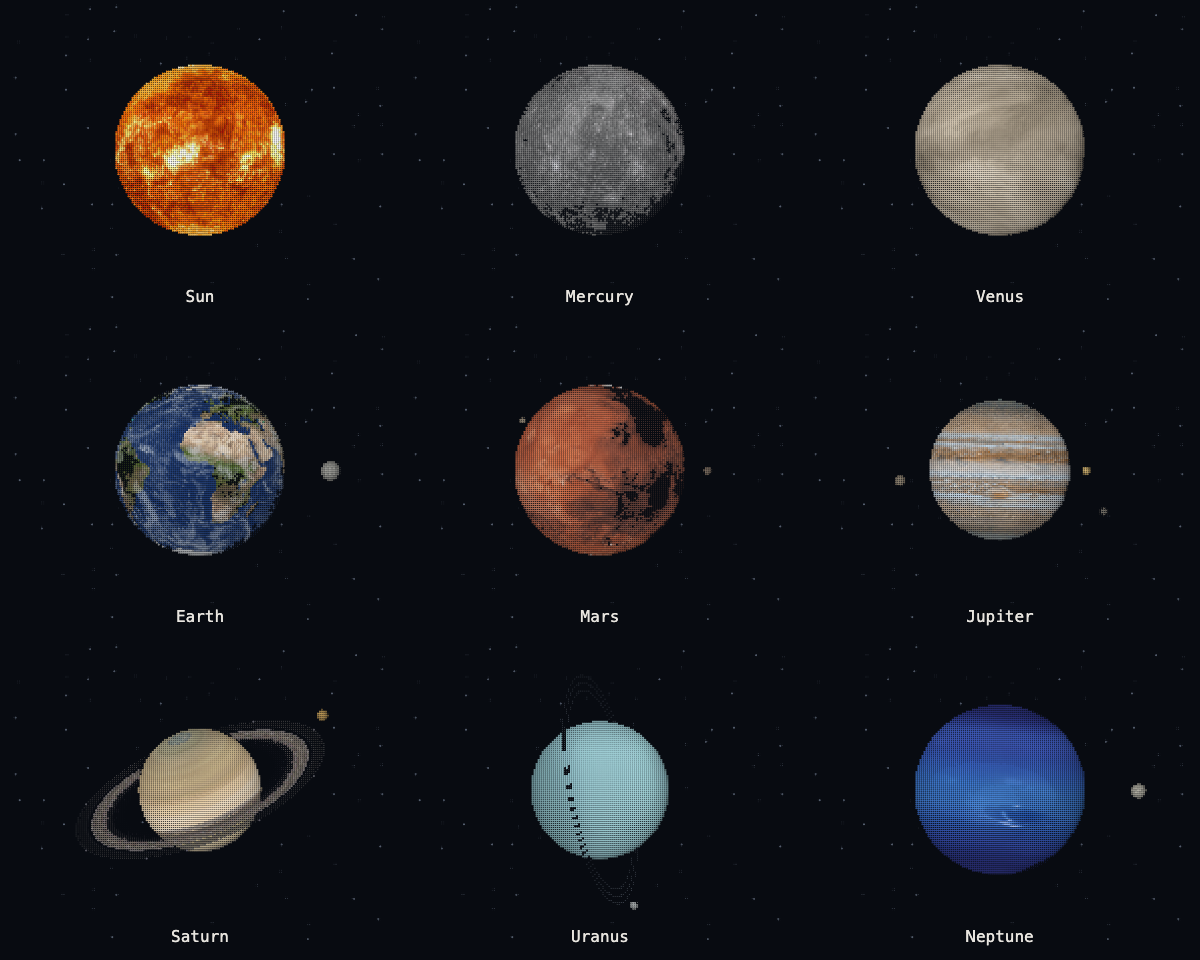
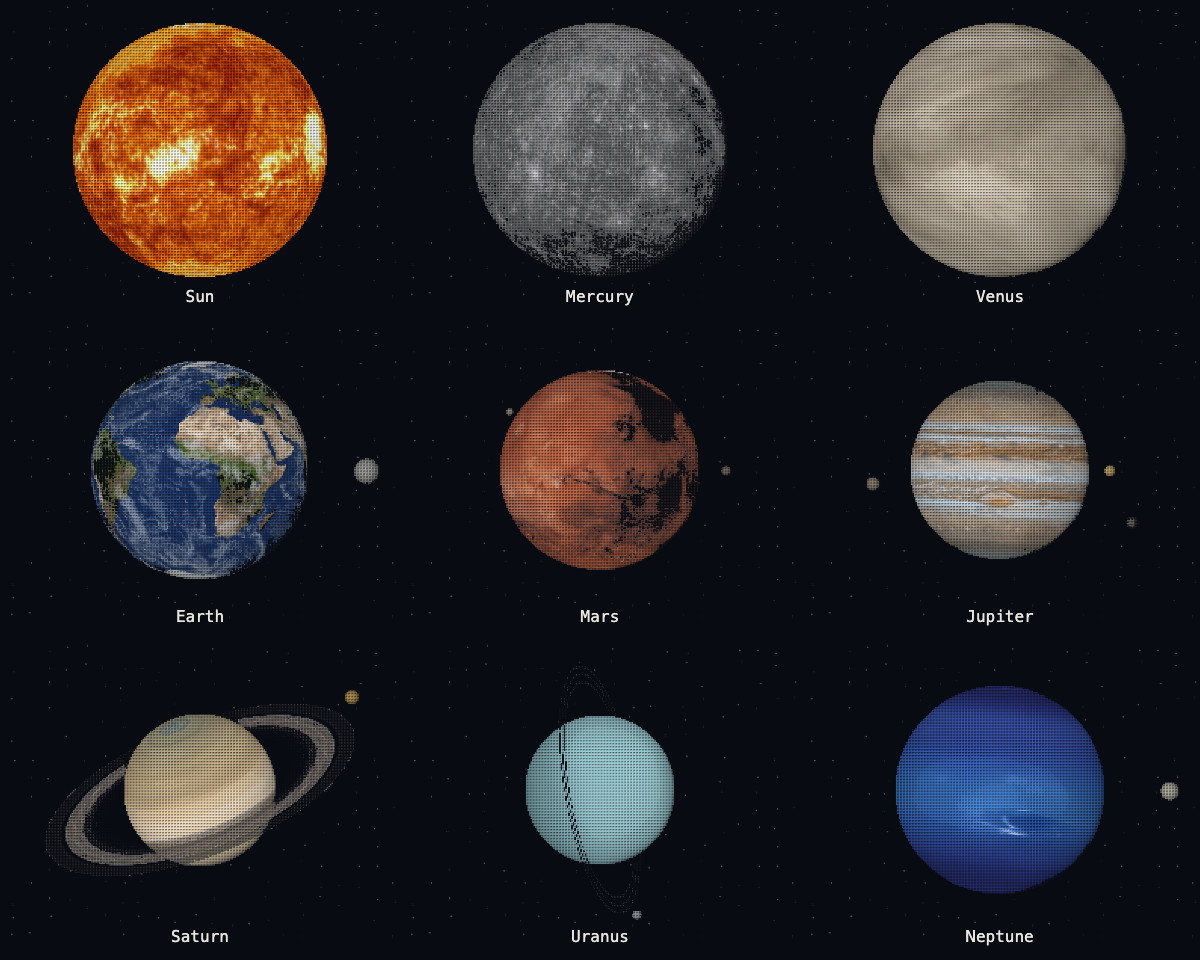
feat(solar-system): enlarge worlds and increase surface detail

diff --git a/art/solar-system/index.html b/art/solar-system/index.html
@@ -4,7 +4,7 @@
 <meta name="viewport" content="width=device-width,initial-scale=1">
 <title>Solar system · Astro ASCII</title>
 <style>
-:root{color-scheme:dark;--bg:#080b11;--ink:#e8e5df;--muted:#a0aaba;--line:#303949;--accent:#e7c58f}*{box-sizing:border-box}body{margin:0;background:var(--bg);color:var(--ink);font:14px/1.6 ui-monospace,SFMono-Regular,Menlo,monospace}main{max-width:1500px;margin:auto;padding:28px 40px}header{display:flex;justify-content:space-between;align-items:center;gap:20px;border-bottom:1px solid var(--line);padding-bottom:20px}header a,a{color:var(--muted);text-underline-offset:5px}header p{margin:0;font-size:12px}h1{font:400 22px/1.4 ui-monospace,monospace;margin:0}.viewer{display:grid;grid-template-columns:minmax(0,1fr) 290px;align-items:center;gap:36px;min-height:520px}canvas{display:block;width:100%;height:auto}#globe{aspect-ratio:4/3;width:min(100%,calc(64vh * 4/3));height:auto;justify-self:center}h2{font-size:36px;font-weight:400;letter-spacing:-.03em;line-height:1.2;margin:0 0 18px}#description{color:var(--muted);margin:0 0 22px;max-width:35ch}.facts{font-size:12px;margin-bottom:26px;color:var(--muted)}.facts p{margin:6px 0}.facts strong{font-weight:400;color:var(--ink)}button{font:inherit;background:transparent;border:1px solid var(--line);color:var(--ink);padding:9px 12px;cursor:pointer;border-radius:3px;min-height:42px}button:hover{border-color:var(--accent)}button:focus-visible,a:focus-visible{outline:2px solid var(--accent);outline-offset:4px}.controls{display:flex;flex-wrap:wrap;gap:8px}#bodies{display:grid;grid-template-columns:repeat(9,minmax(0,1fr));gap:8px;border-top:1px solid var(--line);padding-top:18px}#bodies button{border-color:transparent;padding:6px 3px 12px;color:var(--muted)}#bodies button[aria-pressed=true]{border-color:var(--accent);color:var(--accent);background:#121721}#bodies canvas{aspect-ratio:4/3}#bodies span{font-size:12px}footer{display:flex;justify-content:space-between;gap:24px;color:var(--muted);font-size:11px;margin-top:24px}footer p{max-width:82ch;margin:0}::selection{background:var(--accent);color:var(--bg)}.shot header,.shot aside,.shot #bodies,.shot footer{display:none}.shot main{padding:0;max-width:none}.shot .viewer{display:block;min-height:0}.shot #globe{width:100%}
+:root{color-scheme:dark;--bg:#080b11;--ink:#e8e5df;--muted:#a0aaba;--line:#303949;--accent:#e7c58f}*{box-sizing:border-box}body{margin:0;background:var(--bg);color:var(--ink);font:14px/1.6 ui-monospace,SFMono-Regular,Menlo,monospace}main{max-width:1500px;margin:auto;padding:28px 40px}header{display:flex;justify-content:space-between;align-items:center;gap:20px;border-bottom:1px solid var(--line);padding-bottom:20px}header a,a{color:var(--muted);text-underline-offset:5px}header p{margin:0;font-size:12px}h1{font:400 22px/1.4 ui-monospace,monospace;margin:0}.viewer{display:grid;grid-template-columns:minmax(0,1fr) 290px;align-items:center;gap:36px;min-height:520px}canvas{display:block;width:100%;height:auto}#globe{aspect-ratio:4/3;width:min(100%,calc(78vh * 4/3));height:auto;justify-self:center}h2{font-size:36px;font-weight:400;letter-spacing:-.03em;line-height:1.2;margin:0 0 18px}#description{color:var(--muted);margin:0 0 22px;max-width:35ch}.facts{font-size:12px;margin-bottom:26px;color:var(--muted)}.facts p{margin:6px 0}.facts strong{font-weight:400;color:var(--ink)}button{font:inherit;background:transparent;border:1px solid var(--line);color:var(--ink);padding:9px 12px;cursor:pointer;border-radius:3px;min-height:42px}button:hover{border-color:var(--accent)}button:focus-visible,a:focus-visible{outline:2px solid var(--accent);outline-offset:4px}.controls{display:flex;flex-wrap:wrap;gap:8px}#bodies{display:grid;grid-template-columns:repeat(9,minmax(0,1fr));gap:8px;border-top:1px solid var(--line);padding-top:18px}#bodies button{border-color:transparent;padding:6px 3px 12px;color:var(--muted)}#bodies button[aria-pressed=true]{border-color:var(--accent);color:var(--accent);background:#121721}#bodies canvas{aspect-ratio:4/3}#bodies span{font-size:12px}footer{display:flex;justify-content:space-between;gap:24px;color:var(--muted);font-size:11px;margin-top:24px}footer p{max-width:82ch;margin:0}::selection{background:var(--accent);color:var(--bg)}.shot header,.shot aside,.shot #bodies,.shot footer{display:none}.shot main{padding:0;max-width:none}.shot .viewer{display:block;min-height:0}.shot #globe{width:100%}
 @media(max-width:800px){main{padding:20px}.viewer{grid-template-columns:1fr;gap:0;min-height:0}#globe{max-height:none}aside{padding:5px 0 24px}h2{font-size:28px;margin-bottom:12px}#description{max-width:65ch}.facts{margin-bottom:16px}#bodies{grid-template-columns:repeat(3,1fr)}header p{display:none}footer{display:block}footer a{display:inline-block;margin-top:12px}}
 .embedded header{display:none}.embedded main{padding-top:12px}
 </style>
@@ -19,6 +19,7 @@
 // <solar-engine>
 
 const LOOP=180,TAU=Math.PI*2;
+const FRAME_RADIUS={sun:.425,mercury:.425,venus:.425,earth:.365,mars:.335,jupiter:.30,saturn:.255,uranus:.25,neptune:.35};
 const BODIES=[
  {id:'sun',name:'Sun',kind:'star',feature:'Solar surface · colored map',description:'A textured solar disk, rendered in warm dots. The golden palette is a visualization, not a claim about the Sun’s naked-eye color.',offset:0,tilt:0},
  {id:'mercury',name:'Mercury',kind:'planet',feature:'Impact basins & crater rays',description:'Gray impact plains and bright crater rays, taken from a mapped surface rather than generated noise.',offset:0,tilt:.04},
@@ -66,7 +67,7 @@ function paintMoon(color,x,y,z,moon){
 function buildPortrait(id,width,height,t=0){
  const body=BODIES.find(b=>b.id===id);if(!body)throw new Error('Unknown body: '+id);
  const rgb=new Uint8ClampedArray(width*height*3);
- const radius=height*(id==='saturn'?.205:id==='jupiter'?.235:id==='uranus'?.23:.285),ct=Math.cos(body.tilt),st=Math.sin(body.tilt);
+ const radius=height*FRAME_RADIUS[id],ct=Math.cos(body.tilt),st=Math.sin(body.tilt);
  const moons=satellites(id,t);
  for(let py=0;py<height;py++)for(let px=0;px<width;px++){
   const x=(px+.5-width/2)/radius,y=-(py+.5-height/2)/radius,r2=x*x+y*y,k=(py*width+px)*3;
@@ -147,7 +148,7 @@ const BAYER=[0,8,2,10,12,4,14,6,3,11,1,9,15,7,13,5];
 function paint(target,id,t,small=false){
  const dpr=devicePixelRatio||1,pw=Math.max(1,Math.round(target.getBoundingClientRect().width*dpr)),ph=Math.round(pw*.75);
  // Coarser, legible dots like ascii.rest scenes. Integer device pixels avoid moire.
- const cell=Math.max(2,Math.round((small?3:4.2)*dpr)),w=Math.max(8,Math.floor(pw/cell)),h=Math.max(6,Math.floor(ph/cell)),c=target.getContext('2d');
+ const cell=Math.max(2,Math.round(3*dpr)),w=Math.max(8,Math.floor(pw/cell)),h=Math.max(6,Math.floor(ph/cell)),c=target.getContext('2d');
  let layout=dotLayouts.get(target);
  if(!layout||layout.id!==id||layout.pw!==pw||layout.ph!==ph){
   const base=portrait(id,w,h),glyphs=new Uint8Array(w*h);
@@ -188,7 +189,7 @@ if(params.has('embed'))document.body.classList.add('embedded');
 if(params.has('shot'))document.body.classList.add('shot');select(selected);playLabel();
 async function loadTextures(){
  const entries=await Promise.all(Object.entries(SOLAR_TEXTURES).map(async([id,src])=>{
-  const image=new Image();image.src=src;await image.decode();const c=document.createElement('canvas');c.width=Math.min(1024,image.width);c.height=Math.round(image.height*c.width/image.width);const x=c.getContext('2d');x.drawImage(image,0,0,c.width,c.height);
+  const image=new Image();image.src=src;await image.decode();const c=document.createElement('canvas');c.width=Math.min(2048,image.width);c.height=Math.round(image.height*c.width/image.width);const x=c.getContext('2d');x.drawImage(image,0,0,c.width,c.height);
   return [id,{width:c.width,height:c.height,data:x.getImageData(0,0,c.width,c.height).data}];
  }));
  setTextures(Object.fromEntries(entries));ready=true;buttons.forEach((b,i)=>paint(b.querySelector('canvas'),BODIES[i].id,0,true));select(selected);requestAnimationFrame(tick);

diff --git a/art/solar-system/TEXTURES.md b/art/solar-system/TEXTURES.md
@@ -28,6 +28,6 @@ Download prefix: `https://www.solarsystemscope.com/textures/download/`
 
 `textures.js` packages the unchanged downloaded image bytes as data URLs to support local offline rendering without canvas cross-origin restrictions. To rebuild, save the listed files in a local directory with the `2k_` prefix removed, then run `node scripts/build-solar-textures.mjs <directory>`.
 
-Runtime modifications: downsampling to a 1024-pixel-wide texture buffer, spherical projection, bilinear sampling, lighting that only attenuates source channels, Earth cloud compositing, and Unicode dot rendering. All worlds rotate under a fixed light. Earth clouds have independent longitude motion; gas-giant cloud bands deform locally. Saturn ring geometry stays fixed with mild azimuthal material variation. Selected moon spheres and representative Uranus ring bands are procedural additions. Venus saturation is reduced toward pale cream and Mars saturation toward the Viking reference. No emissive particle layer, specular highlight, or clipped exposure boost is added. Preview images are adaptations of these maps and retain the same attribution requirements.
+Runtime modifications: decoding to a texture buffer up to the original 2048-pixel width, spherical projection, bilinear sampling, lighting that only attenuates source channels, Earth cloud compositing, and Unicode dot rendering. All worlds rotate under a fixed light. Earth clouds have independent longitude motion; gas-giant cloud bands deform locally. Saturn ring geometry stays fixed with mild azimuthal material variation. Selected moon spheres and representative Uranus ring bands are procedural additions. Venus saturation is reduced toward pale cream and Mars saturation toward the Viking reference. No emissive particle layer, specular highlight, or clipped exposure boost is added. Preview images are adaptations of these maps and retain the same attribution requirements.
 
 The MIT code license does not replace this image license. No endorsement by Solar System Scope, INOVE, or NASA is implied.

diff --git a/docs/rendering.md b/docs/rendering.md
@@ -23,7 +23,7 @@ Selected natural satellites orbit independently: Earth’s Moon; Mars’s Phobos
 
 Saturn has a texture-mapped ring with restrained azimuthal structure. Uranus has a tipped plane with three representative narrow dark bands, not a complete census of its rings. The distant star field makes a small camera-like drift without changing the illumination of the planet. It is a compositional background, not a measured sky chart.
 
-The complete display loop is 180 seconds. Display rotation periods are Sun 90 s, Mercury 180 s, Venus 180 s retrograde, Earth 60 s, Mars 90 s, Jupiter 45 s, Saturn 60 s, Uranus 90 s retrograde, Neptune 60 s. These periods demonstrate motion and are not physically scaled. Earth clouds complete an additional turn over the full loop. The glyphs remain on a fixed device-pixel grid; material brightness selects dot size each frame. Target rate is 15 fps.
+The complete display loop is 180 seconds. Display rotation periods are Sun 90 s, Mercury 180 s, Venus 180 s retrograde, Earth 60 s, Mars 90 s, Jupiter 45 s, Saturn 60 s, Uranus 90 s retrograde, Neptune 60 s. These periods demonstrate motion and are not physically scaled. Earth clouds complete an additional turn over the full loop. The glyphs remain on a fixed device-pixel grid; material brightness selects dot size each frame. Target rate is 15 fps. The main artwork uses a 3 CSS-pixel dot pitch and full 2K source textures. Per-system framing enlarges each globe while preserving full-orbit room for its moons and rings; the desktop canvas can occupy 78% of viewport height.
 
 Use `?body=earth` to select a body, `&t=0` to freeze it, or `&shot` for an artwork-only view. Pause, reduced motion and offscreen suspension are supported. The texture pack remains offline-capable; see [attribution](../art/solar-system/TEXTURES.md) and [references](planet-photo-references.md).
 

diff --git a/CHANGELOG.md b/CHANGELOG.md
@@ -15,6 +15,8 @@
 
 ### Changed
 
+- Enlarged every solar-system body with per-system framing, a denser 3 px dot grid, and 2K texture sampling; full-orbit bounds remain visible.
+
 - Adopted slow natural rotation with stable illumination, independent Earth clouds, selected orbiting moons, and Saturn/Uranus ring structure. Removed the phase-lighting pulse.
 
 - Enabled animation for all nine solar portraits; strengthened cloud motion and added accelerated illumination phases over fixed rocky terrain.
